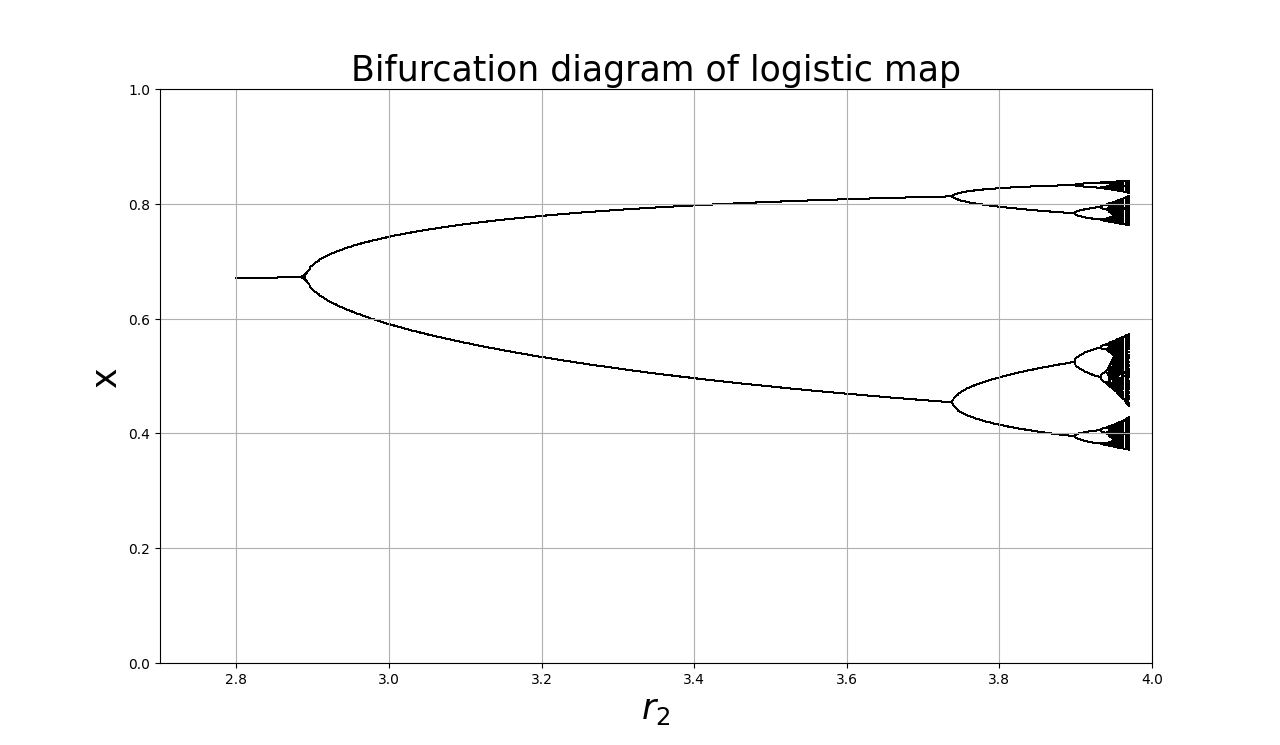
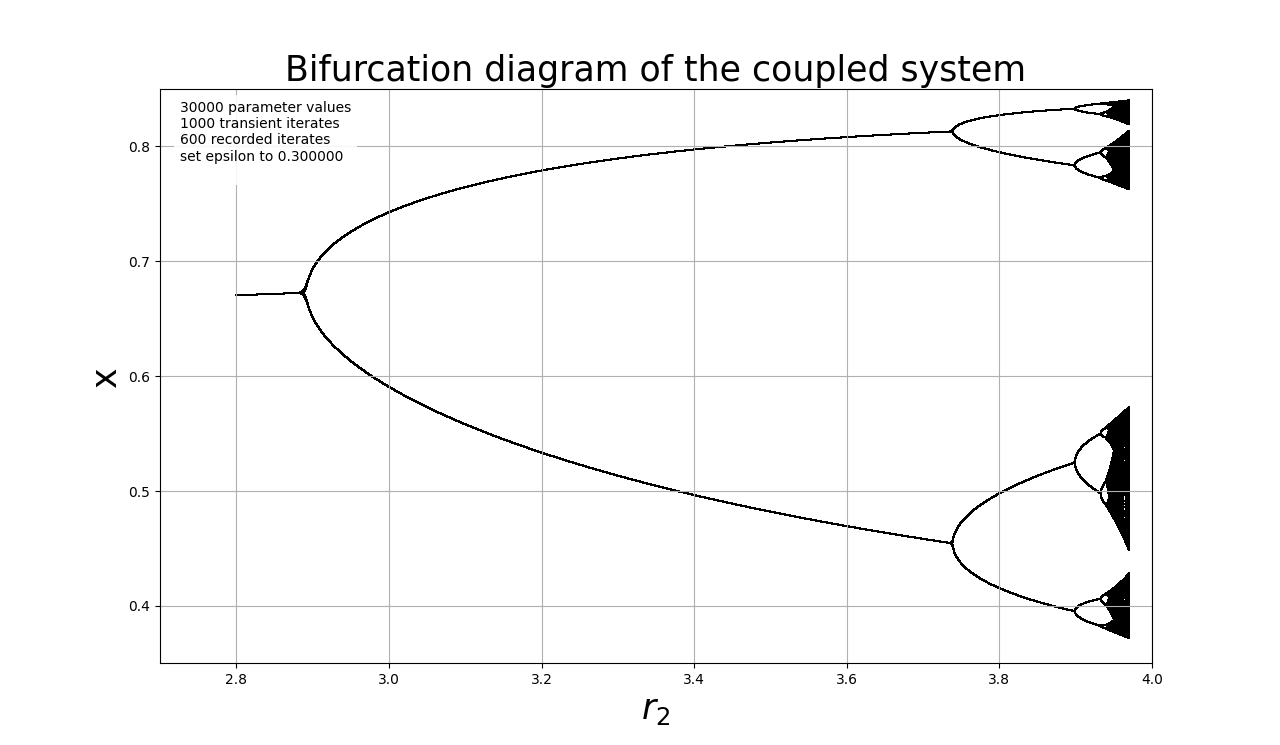
Sista fixarna med koden

diff --git a/bifurcationCascade.py b/bifurcationCascade.py
@@ -3,7 +3,7 @@ import matplotlib.pyplot as plt
 #Setting variables given from project description
 r1 = 3.1
 epsilon = 0.3
-r_num = 1000
+r_num = 30000
 r2 = np.linspace(2.8,3.97,r_num)
 
 x_plot = []
@@ -24,11 +24,25 @@ y_next = 0
 plt.figure()
 plt.xlabel('$r_2$',fontsize = 25)
 plt.ylabel('x',fontsize = 25)
-plt.title("Bifurcation diagram of logistic map", fontsize = 25)
+plt.title("Bifurcation diagram of the coupled system", fontsize = 25)
+
+ax = plt.gca();
+
+ax.text(
+    0.02, 0.98,
+    rf"{30000:d} parameter values" "\n"
+    rf"{1000:d} transient iterates" "\n"
+    rf"{600:d} recorded iterates" "\n"
+    rf"set epsilon to {0.3:f} " "\n",
+    transform = ax.transAxes,
+    ha = 'left',
+    va = 'top',
+    bbox = dict(facecolor = 'white', alpha = 0.88, edgecolor = 'none')
+  )
 
 ax = plt.gca()
 ax.set_xlim([2.7, 4])
-ax.set_ylim([0, 1])
+ax.set_ylim([0.35, 0.85])
 
 for j in range(len(r2)):
     print(str(round(100*j/len(r2), 1)) + "%")
